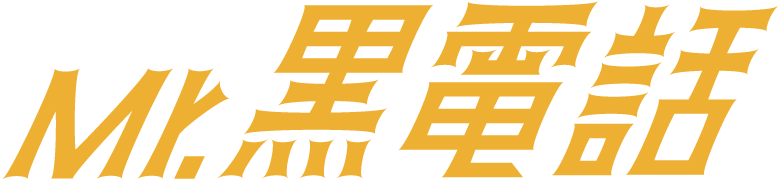
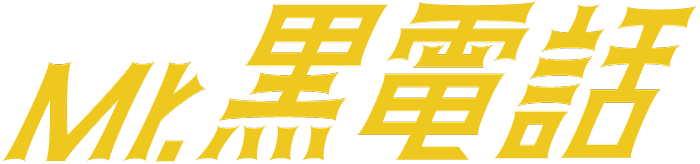
ui

diff --git a/static/.ipynb_checkpoints/style-checkpoint.css b/static/.ipynb_checkpoints/style-checkpoint.css
@@ -11,7 +11,7 @@ body{
     margin:0;
     background-image:
 	 repeating-linear-gradient(-30deg,
-	 #eeeeee, #eeeeee 7.5px,
+	 #e8e8e8, #e8e8e8 7.5px,
 	 transparent 0, transparent 15px);
 }
 
@@ -35,12 +35,12 @@ body{
 
 
 .footer{
-    color:#dddddd;
+    color:#ffffff;
     position:fixed;
     bottom:0;
     left:0;
     width:100%;
-    background-color:#b5122e;
+    background-color:#CE1031;
     display: flex;
     justify-content: center;
     align-items: center;
@@ -63,7 +63,7 @@ body{
 }
 
 .title-image{
-    height:2.5em;
+    height:2.2em;
     margin-top:0.4em;
 }
 
@@ -117,15 +117,13 @@ body{
     align-items: center;
 }
 .trim{
-    overflow:scroll;
+    margin-top:1.8em;
+    overflow:hidden;
 }
 
 .default{
     text-align:justify;
     font-size:0.8em;
-    min-height:40vh;
-    height:40vh;
-    max-height:40vh;
     width:100%;
     display: flex;
     justify-content: center;
@@ -134,14 +132,15 @@ body{
 }
 
 .default-text{
-    padding:0.8em 0 0 0;
+    font-size:0.8em;
+    text-align:center;
     box-sizing:border-box;
 }
 
 .selected{
-    min-height:40vh;
-    height:40vh;
-    max-height:40vh;
+    width:100%;
+    max-height:30em;
+    height:10em;
 }
 
 .area-404{
@@ -192,13 +191,15 @@ body{
 /* 画像 */
 
 .image{
-    min-height:40vh;
-    height:40vh;
-    max-height:40vh;
+    width:100%;
+    height:100%;
+    object-fit: contain;
 }
 
 .default-image{
     width:100%;
+    height:100%;
+    object-fit: contain;
 }
 
 /* 共通 */

diff --git a/static/style.css b/static/style.css
@@ -11,7 +11,7 @@ body{
     margin:0;
     background-image:
 	 repeating-linear-gradient(-30deg,
-	 #eeeeee, #eeeeee 7.5px,
+	 #e8e8e8, #e8e8e8 7.5px,
 	 transparent 0, transparent 15px);
 }
 
@@ -35,12 +35,12 @@ body{
 
 
 .footer{
-    color:#dddddd;
+    color:#ffffff;
     position:fixed;
     bottom:0;
     left:0;
     width:100%;
-    background-color:#b5122e;
+    background-color:#CE1031;
     display: flex;
     justify-content: center;
     align-items: center;
@@ -63,7 +63,7 @@ body{
 }
 
 .title-image{
-    height:2.5em;
+    height:2.2em;
     margin-top:0.4em;
 }
 
@@ -117,15 +117,13 @@ body{
     align-items: center;
 }
 .trim{
-    overflow:scroll;
+    margin-top:1.8em;
+    overflow:hidden;
 }
 
 .default{
     text-align:justify;
     font-size:0.8em;
-    min-height:40vh;
-    height:40vh;
-    max-height:40vh;
     width:100%;
     display: flex;
     justify-content: center;
@@ -134,14 +132,15 @@ body{
 }
 
 .default-text{
-    padding:0.8em 0 0 0;
+    font-size:0.8em;
+    text-align:center;
     box-sizing:border-box;
 }
 
 .selected{
-    min-height:40vh;
-    height:40vh;
-    max-height:40vh;
+    width:100%;
+    max-height:30em;
+    height:10em;
 }
 
 .area-404{
@@ -192,13 +191,15 @@ body{
 /* 画像 */
 
 .image{
-    min-height:40vh;
-    height:40vh;
-    max-height:40vh;
+    width:100%;
+    height:100%;
+    object-fit: contain;
 }
 
 .default-image{
     width:100%;
+    height:100%;
+    object-fit: contain;
 }
 
 /* 共通 */

diff --git a/templates/.ipynb_checkpoints/result-checkpoint.html b/templates/.ipynb_checkpoints/result-checkpoint.html
@@ -14,7 +14,9 @@
     <div class="title"><img class="title-image" src="./static/img/title.png" alt="{{textdef.title}}" /></div>
     <div class="main">
         <div class="area center trim">
-            <img id = 'image' class="image" src="{{filepath}}" />
+            <div class="selected">
+                <img id = 'image' class="image" src="{{filepath}}" />
+            </div>
         </div>
         <div class="area">
             <div class="answer-area"><span>{{textdef.answer_description}}</span><span class="answer">{{answer}}</span></div>
@@ -25,7 +27,7 @@
         <div>
             <div class="area">
                 <a href="https://twitter.com/share?url={{url}}&text={{textdef.subtitle}}（{{detail}}）&hashtags={{textdef.hashtag}}" class="button main" data-show-count="false" target="_blank">
-                    <img class="button-icon" src="./static/img/twitter.png" />{{textdef.tweet}}
+                    {{textdef.tweet}}
                 </a>
             </div>
             <div class="area">

diff --git a/templates/result.html b/templates/result.html
@@ -14,7 +14,9 @@
     <div class="title"><img class="title-image" src="./static/img/title.png" alt="{{textdef.title}}" /></div>
     <div class="main">
         <div class="area center trim">
-            <img id = 'image' class="image" src="{{filepath}}" />
+            <div class="selected">
+                <img id = 'image' class="image" src="{{filepath}}" />
+            </div>
         </div>
         <div class="area">
             <div class="answer-area"><span>{{textdef.answer_description}}</span><span class="answer">{{answer}}</span></div>
@@ -25,7 +27,7 @@
         <div>
             <div class="area">
                 <a href="https://twitter.com/share?url={{url}}&text={{textdef.subtitle}}（{{detail}}）&hashtags={{textdef.hashtag}}" class="button main" data-show-count="false" target="_blank">
-                    <img class="button-icon" src="./static/img/twitter.png" />{{textdef.tweet}}
+                    {{textdef.tweet}}
                 </a>
             </div>
             <div class="area">

diff --git a/templates/.ipynb_checkpoints/index-checkpoint.html b/templates/.ipynb_checkpoints/index-checkpoint.html
@@ -18,12 +18,12 @@
             <div class="area center trim">
                 <div id="id_default" class="default">
                     <img class="default-image" src="./static/img/main.png" />
-                    <div class="default-text">{{textdef.description}}</div>
                 </div>
                 <div id="id_selected" class="selected hidden">
                     <img id = 'image' class="image" src="" />
                 </div>
             </div>
+            <div class="default-text">{{textdef.description}}</div>
             <div class="area">   
                 <div class="area">
                     <label id='selectFile' class="button main">

diff --git a/templates/index.html b/templates/index.html
@@ -18,12 +18,12 @@
             <div class="area center trim">
                 <div id="id_default" class="default">
                     <img class="default-image" src="./static/img/main.png" />
-                    <div class="default-text">{{textdef.description}}</div>
                 </div>
                 <div id="id_selected" class="selected hidden">
                     <img id = 'image' class="image" src="" />
                 </div>
             </div>
+            <div class="default-text">{{textdef.description}}</div>
             <div class="area">   
                 <div class="area">
                     <label id='selectFile' class="button main">
